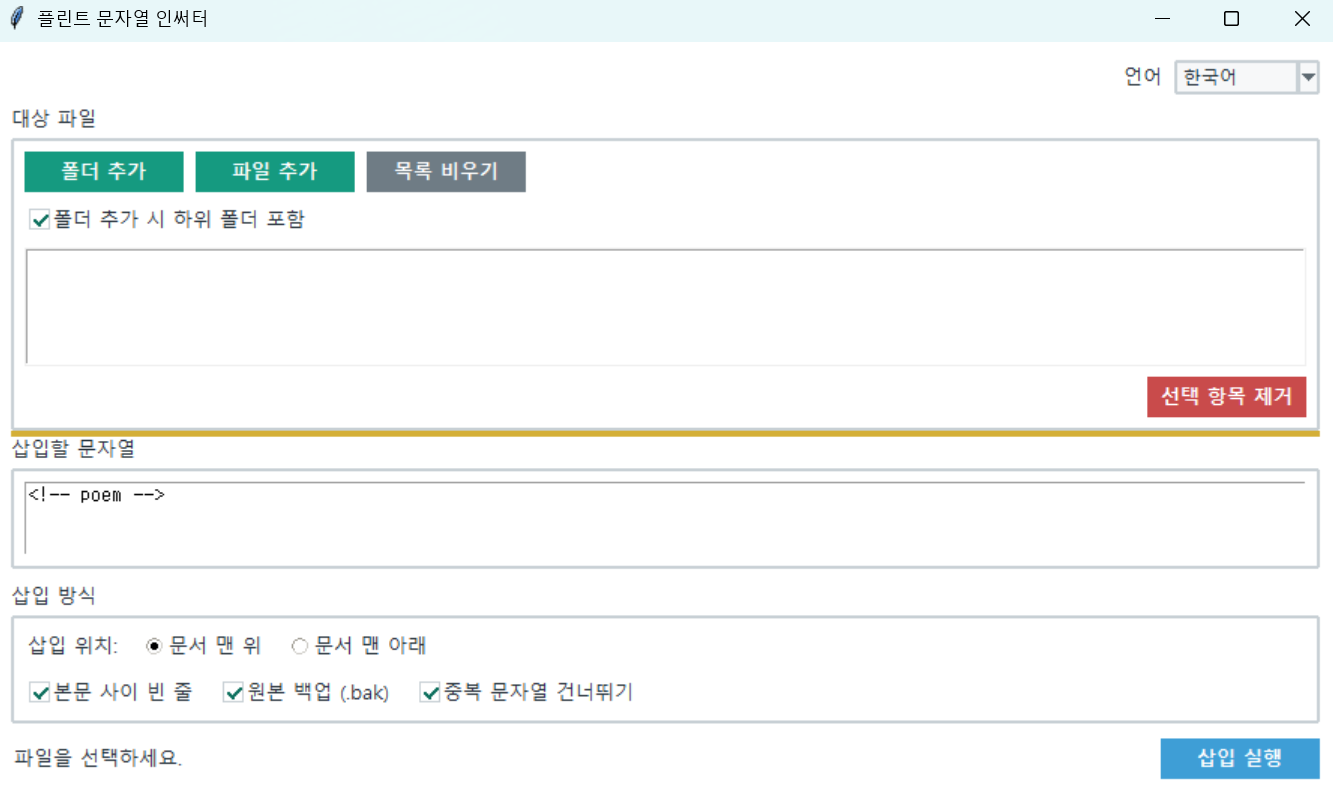
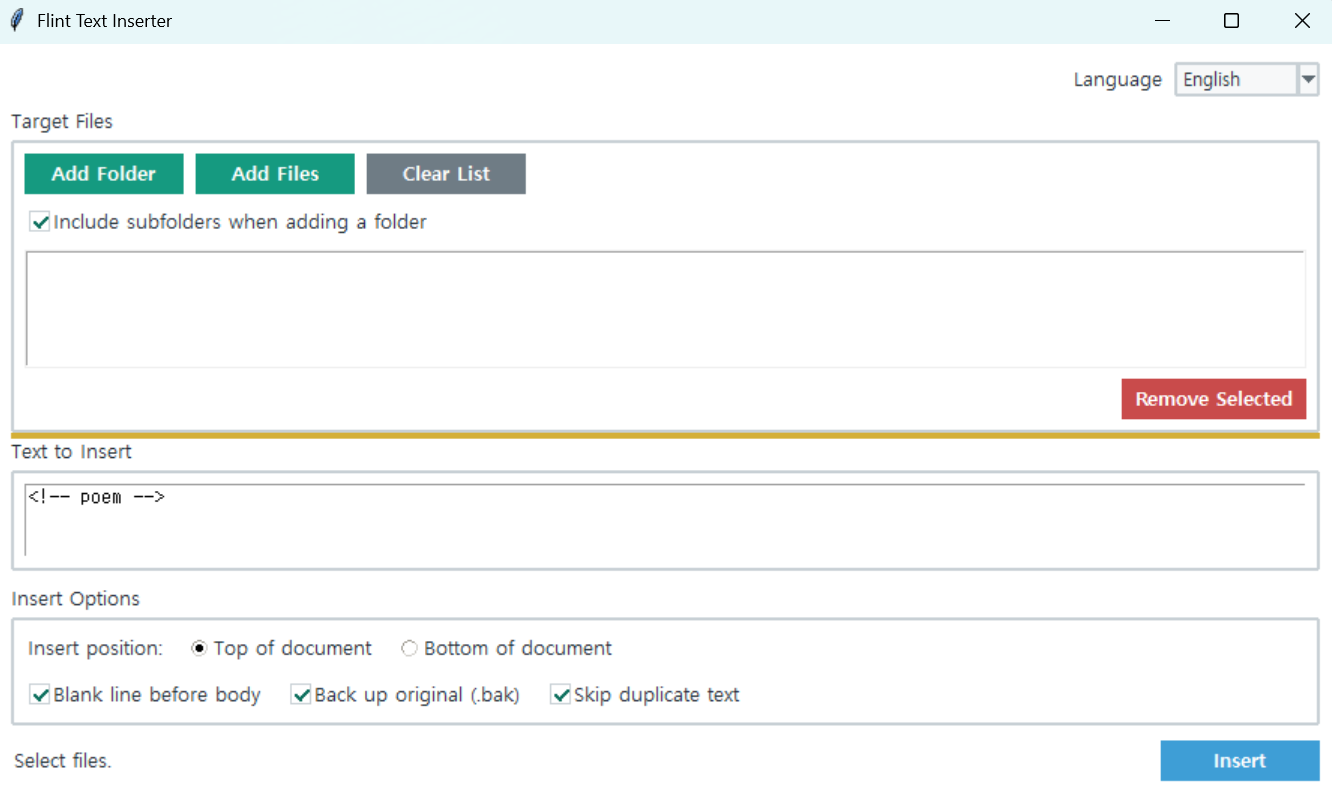
Update badamail: 8 files

diff --git a/toolbox/fti.html b/toolbox/fti.html
@@ -1,0 +1,98 @@
+<!doctype html>
+<html lang="ko">
+<head>
+  <meta charset="utf-8">
+  <meta name="viewport" content="width=device-width, initial-scale=1">
+  <title>플린트 텍스트 인서터 | 플린트의 공구함</title>
+  <meta name="description" content="여러 텍스트 파일의 문서 맨 위나 맨 아래에 동일한 문자열을 한 번에 삽입하는 도구입니다. Markdown 문서에 `&lt;!-- poem --&gt;` 같은 분류용 주석이나 고정된 머리말·꼬리말을 여러 파일에 일괄로 추가할 때 사용할 수 있습니다.">
+  <meta name="robots" content="index, follow">
+  <meta property="og:site_name" content="Blackship">
+  <meta property="og:title" content="플린트 텍스트 인서터 | 플린트의 공구함">
+  <meta property="og:description" content="여러 텍스트 파일의 문서 맨 위나 맨 아래에 동일한 문자열을 한 번에 삽입하는 도구입니다. Markdown 문서에 `&lt;!-- poem --&gt;` 같은 분류용 주석이나 고정된 머리말·꼬리말을 여러 파일에 일괄로 추가할 때 사용할 수 있습니다.">
+  <meta property="og:type" content="website">
+  <link rel="alternate" hreflang="ko" href="https://blackship.kr/toolbox/fti.html">
+  <link rel="alternate" hreflang="en" href="https://blackship.kr/en/toolbox/fti.html">
+  <link rel="alternate" hreflang="x-default" href="https://blackship.kr/toolbox/fti.html">
+  <link rel="icon" href="../favicon.ico" type="image/x-icon">
+  <link rel="stylesheet" href="../style.css">
+</head>
+<body>
+  <header class="site-header">
+    <a class="logo" href="../index.html">Blackship</a>
+    <nav class="nav">
+
+      <a href="../index.html">홈</a>
+      <a href="../hidden.html">💎 숨은 보물</a>
+      <a href="../value.html">💰 가성비 보물</a>
+      <a href="../popular.html">🔥 인기 보물</a>
+      <a href="../random.html">🎲 랜덤 보물</a>
+      <a href="../toolbox.html">🧰 공구함</a>
+      <a href="../badamail.html">바다메일</a>
+    </nav>
+  </header>
+
+  <main>
+    
+        <article class="detail toolbox-detail">
+          <div class="toolbox-detail-media">
+            <img src="images/fti.png" alt="플린트 텍스트 인서터" loading="lazy">
+          </div>
+          <div class="toolbox-detail-content">
+            <h1>플린트 텍스트 인서터</h1>
+            <p class="toolbox-detail-version">버전: 1.0.0</p>
+            <div class="toolbox-detail-description">
+              <h2>Flint Text Inserter</h2>
+<p>여러 텍스트 파일의 문서 맨 위나 맨 아래에 동일한 문자열을 한 번에 삽입하는 도구입니다.</p>
+<p>Markdown 문서에 <code>&lt;!-- poem --&gt;</code> 같은 분류용 주석이나 고정된 머리말·꼬리말을 여러 파일에 일괄로 추가할 때 사용할 수 있습니다.</p>
+<h3>사용 방법</h3>
+<ol>
+<li><code>파일 추가</code>를 눌러 작업할 파일을 직접 선택하거나 <code>폴더 추가</code>를 눌러 작업할 폴더를 선택합니다.</li>
+<li>폴더를 선택하면 지원되는 파일을 하위 폴더까지 찾아 목록에 추가합니다.</li>
+<li><code>삽입할 문자열</code>을 입력합니다.</li>
+<li><code>문서 맨 위</code> 또는 <code>문서 맨 아래</code>를 선택합니다.</li>
+<li>빈 줄, 백업, 중복 방지 옵션을 확인합니다.</li>
+<li><code>삽입 실행</code>을 누릅니다.</li>
+</ol>
+<p>예시:</p>
+<pre><code class="language-md">&lt;!-- poem --&gt;
+
+# 바람이 된 마음
+</code></pre>
+<h3>주요 기능</h3>
+<ul>
+<li>여러 파일에 동일한 문자열 일괄 삽입</li>
+<li>문서 맨 위 또는 맨 아래 삽입</li>
+<li>폴더 내 지원 파일 일괄 추가</li>
+<li>하위 폴더 포함 검색</li>
+<li>삽입 문자열과 본문 사이의 빈 줄 선택</li>
+<li>같은 문자열이 이미 있으면 자동 건너뛰기</li>
+<li>UTF-8, CP949, EUC-KR 인코딩 지원</li>
+<li>기존 줄바꿈 형식 유지</li>
+<li>원본 파일 자동 백업</li>
+</ul>
+<p>지원 확장자:</p>
+<pre><code class="language-text">.txt .md .markdown .html .htm .css .js .py .json .yml .yaml
+</code></pre>
+<p>실행:</p>
+<pre><code class="language-bash">python inserter.py
+</code></pre>
+<blockquote>
+<p><code>참고:</code> 실행 파일(EXE) 버전을 사용하는 경우에는 python 명령을 실행할 필요가 없습니다.</p>
+</blockquote>
+            </div>
+            <div class="toolbox-detail-actions">
+              <a class="buy-button" href="https://github.com/flinthawke/toolbox/releases/download/fti-v1.0.0/fti.1.0.0.portable.zip">다운로드</a> <a class="badamail-link" href="https://github.com/flinthawke/toolbox/releases/tag/fti-v1.0.0" target="_blank" rel="noopener">GitHub에서 소스 보기</a>
+            </div>
+            <p class="toolbox-detail-back"><a class="badamail-link" href="../toolbox.html">공구함으로 돌아가기</a></p>
+          </div>
+        </article>
+        
+  </main>
+
+  <footer class="site-footer">
+    <p>본 프로그램은 있는 그대로(AS IS) 제공됩니다. 사용으로 인해 발생하는 데이터 손실이나 기타 문제에 대해서는 책임을 지지 않습니다.</p>
+    <p>중요한 파일은 반드시 백업한 후 사용하시기 바랍니다.</p>
+  </footer>
+  <img class="visitor-counter-tracker" src="https://hits.sh/blackship.kr.svg?label=visitors&amp;color=000000&amp;labelColor=000000" alt="" width="1" height="1" aria-hidden="true">
+</body>
+</html>

diff --git a/en/toolbox/fti.html b/en/toolbox/fti.html
@@ -1,0 +1,101 @@
+<!doctype html>
+<html lang="en">
+<head>
+  <meta charset="utf-8">
+  <meta name="viewport" content="width=device-width, initial-scale=1">
+  <title>Flint Text Inserter | Flint&#x27;s Toolbox</title>
+  <meta name="description" content="A tool for inserting the same string at the beginning or end of multiple text files at once. It can be used to batch-add classification comments such as `&lt;!-- poem --&gt;` to Markdown documents, or to add fixed headers and footers across multiple files.">
+  <meta name="robots" content="index, follow">
+  <meta property="og:site_name" content="Blackship">
+  <meta property="og:title" content="Flint Text Inserter | Flint&#x27;s Toolbox">
+  <meta property="og:description" content="A tool for inserting the same string at the beginning or end of multiple text files at once. It can be used to batch-add classification comments such as `&lt;!-- poem --&gt;` to Markdown documents, or to add fixed headers and footers across multiple files.">
+  <meta property="og:type" content="website">
+  <link rel="alternate" hreflang="ko" href="https://blackship.kr/toolbox/fti.html">
+  <link rel="alternate" hreflang="en" href="https://blackship.kr/en/toolbox/fti.html">
+  <link rel="alternate" hreflang="x-default" href="https://blackship.kr/toolbox/fti.html">
+  <link rel="icon" href="../favicon.ico" type="image/x-icon">
+  <link rel="stylesheet" href="../style.css">
+</head>
+<body>
+  <header class="site-header">
+    <a class="logo" href="../index.html">Blackship</a>
+    <nav class="nav">
+
+      <a href="../index.html">Home</a>
+      <a href="../hidden.html">💎 Hidden Treasures</a>
+      <a href="../value.html">💰 Value Treasures</a>
+      <a href="../popular.html">🔥 Popular Treasures</a>
+      <a href="../random.html">🎲 Random Treasure</a>
+      <a href="../toolbox.html">🧰 Toolbox</a>
+      <a href="../badamail.html">Sea Mail</a>
+    </nav>
+  </header>
+
+  <main>
+    
+        <article class="detail toolbox-detail">
+          <div class="toolbox-detail-media">
+            <img src="images/fti_en.png" alt="Flint Text Inserter" loading="lazy">
+          </div>
+          <div class="toolbox-detail-content">
+            <h1>Flint Text Inserter</h1>
+            <p class="toolbox-detail-version">Version: 1.0.0</p>
+            <div class="toolbox-detail-description">
+              <h2>Flint Text Inserter</h2>
+<p>A tool for inserting the same string at the beginning or end of multiple text files at once.</p>
+<p>It can be used to batch-add classification comments such as <code>&lt;!-- poem --&gt;</code> to Markdown documents, or to add fixed headers and footers across multiple files.</p>
+<h3>How to Use</h3>
+<ol>
+<li>Click <code>Add Files</code> to select files directly, or <code>Add Folder</code> to select a folder.</li>
+<li>When a folder is selected, supported files are found recursively in its subfolders and added to the list.</li>
+<li>Enter the <code>string to insert</code>.</li>
+<li>Select <code>Top of Document</code> or <code>Bottom of Document</code>.</li>
+<li>Check the blank line, backup, and duplicate prevention options.</li>
+<li>Click <code>Run Insertion</code>.</li>
+</ol>
+<p>Example:</p>
+<p>```md id="r8p3vk"</p>
+<!-- poem -->
+
+<h1>A Heart Become the Wind</h1>
+<pre><code>
+### Key Features
+
+* Batch insertion of the same string into multiple files
+* Insert at the beginning or end of a document
+* Add all supported files from a folder
+* Recursive subfolder search
+* Configurable blank lines between the inserted string and document content
+* Automatically skips files that already contain the same string
+* Supports UTF-8, CP949, and EUC-KR encodings
+* Preserves the original line-ending format
+* Automatic backup of original files
+
+Supported extensions:
+
+```text id=&quot;h4x7qn&quot;
+.txt .md .markdown .html .htm .css .js .py .json .yml .yaml
+</code></pre>
+<p>Run:</p>
+<p><code>bash id="c2m9fs"
+python inserter.py</code></p>
+<blockquote>
+<p><code>Note:</code> If you are using the executable (EXE) version, you do not need to run the <code>python</code> command.</p>
+</blockquote>
+            </div>
+            <div class="toolbox-detail-actions">
+              <a class="buy-button" href="https://github.com/flinthawke/toolbox/releases/download/fti-v1.0.0/fti.1.0.0.portable.zip">Download</a> <a class="badamail-link" href="https://github.com/flinthawke/toolbox/releases/tag/fti-v1.0.0" target="_blank" rel="noopener">View source on GitHub</a>
+            </div>
+            <p class="toolbox-detail-back"><a class="badamail-link" href="../toolbox.html">Back to Toolbox</a></p>
+          </div>
+        </article>
+        
+  </main>
+
+  <footer class="site-footer">
+    <p>This program is provided AS IS, without any warranty. The author is not responsible for data loss or any other issues resulting from its use.</p>
+    <p>Please back up important files before using this program.</p>
+  </footer>
+  <img class="visitor-counter-tracker" src="https://hits.sh/blackship.kr.svg?label=visitors&amp;color=000000&amp;labelColor=000000" alt="" width="1" height="1" aria-hidden="true">
+</body>
+</html>

diff --git a/en/toolbox.html b/en/toolbox.html
@@ -62,6 +62,20 @@ It also contains a nuclear cannon, an anti-gravity cruise system, and a giant sq
             </div>
           </div>
         </article>
+        
+        <article class="product-card card toolbox-card">
+          <a class="toolbox-card-media" href="toolbox/fti.html">
+            <img src="toolbox/images/fti_en.png" alt="Flint Text Inserter" loading="lazy">
+          </a>
+          <div class="product-body card-body toolbox-card-body">
+            <h2><a href="toolbox/fti.html">Flint Text Inserter</a></h2>
+            <p>A tool for inserting the same string at the beginning or end of multiple text files at once. It can be used to batch-add classification comments such as `&lt;!-- poem --&gt;` to Markdown documents, or to add fixed headers and footers across multiple files.</p>
+            <div class="toolbox-card-footer">
+              <p class="toolbox-card-version">Version: 1.0.0</p>
+              <a class="buy-button" href="toolbox/fti.html">View details</a>
+            </div>
+          </div>
+        </article>
         </section>
   </main>
 

diff --git a/toolbox.html b/toolbox.html
@@ -62,6 +62,20 @@
             </div>
           </div>
         </article>
+        
+        <article class="product-card card toolbox-card">
+          <a class="toolbox-card-media" href="toolbox/fti.html">
+            <img src="toolbox/images/fti.png" alt="플린트 텍스트 인서터" loading="lazy">
+          </a>
+          <div class="product-body card-body toolbox-card-body">
+            <h2><a href="toolbox/fti.html">플린트 텍스트 인서터</a></h2>
+            <p>여러 텍스트 파일의 문서 맨 위나 맨 아래에 동일한 문자열을 한 번에 삽입하는 도구입니다. Markdown 문서에 `&lt;!-- poem --&gt;` 같은 분류용 주석이나 고정된 머리말·꼬리말을 여러 파일에 일괄로 추가할 때 사용할 수 있습니다.</p>
+            <div class="toolbox-card-footer">
+              <p class="toolbox-card-version">버전: 1.0.0</p>
+              <a class="buy-button" href="toolbox/fti.html">설명 및 설치 방법</a>
+            </div>
+          </div>
+        </article>
         </section>
   </main>
 
